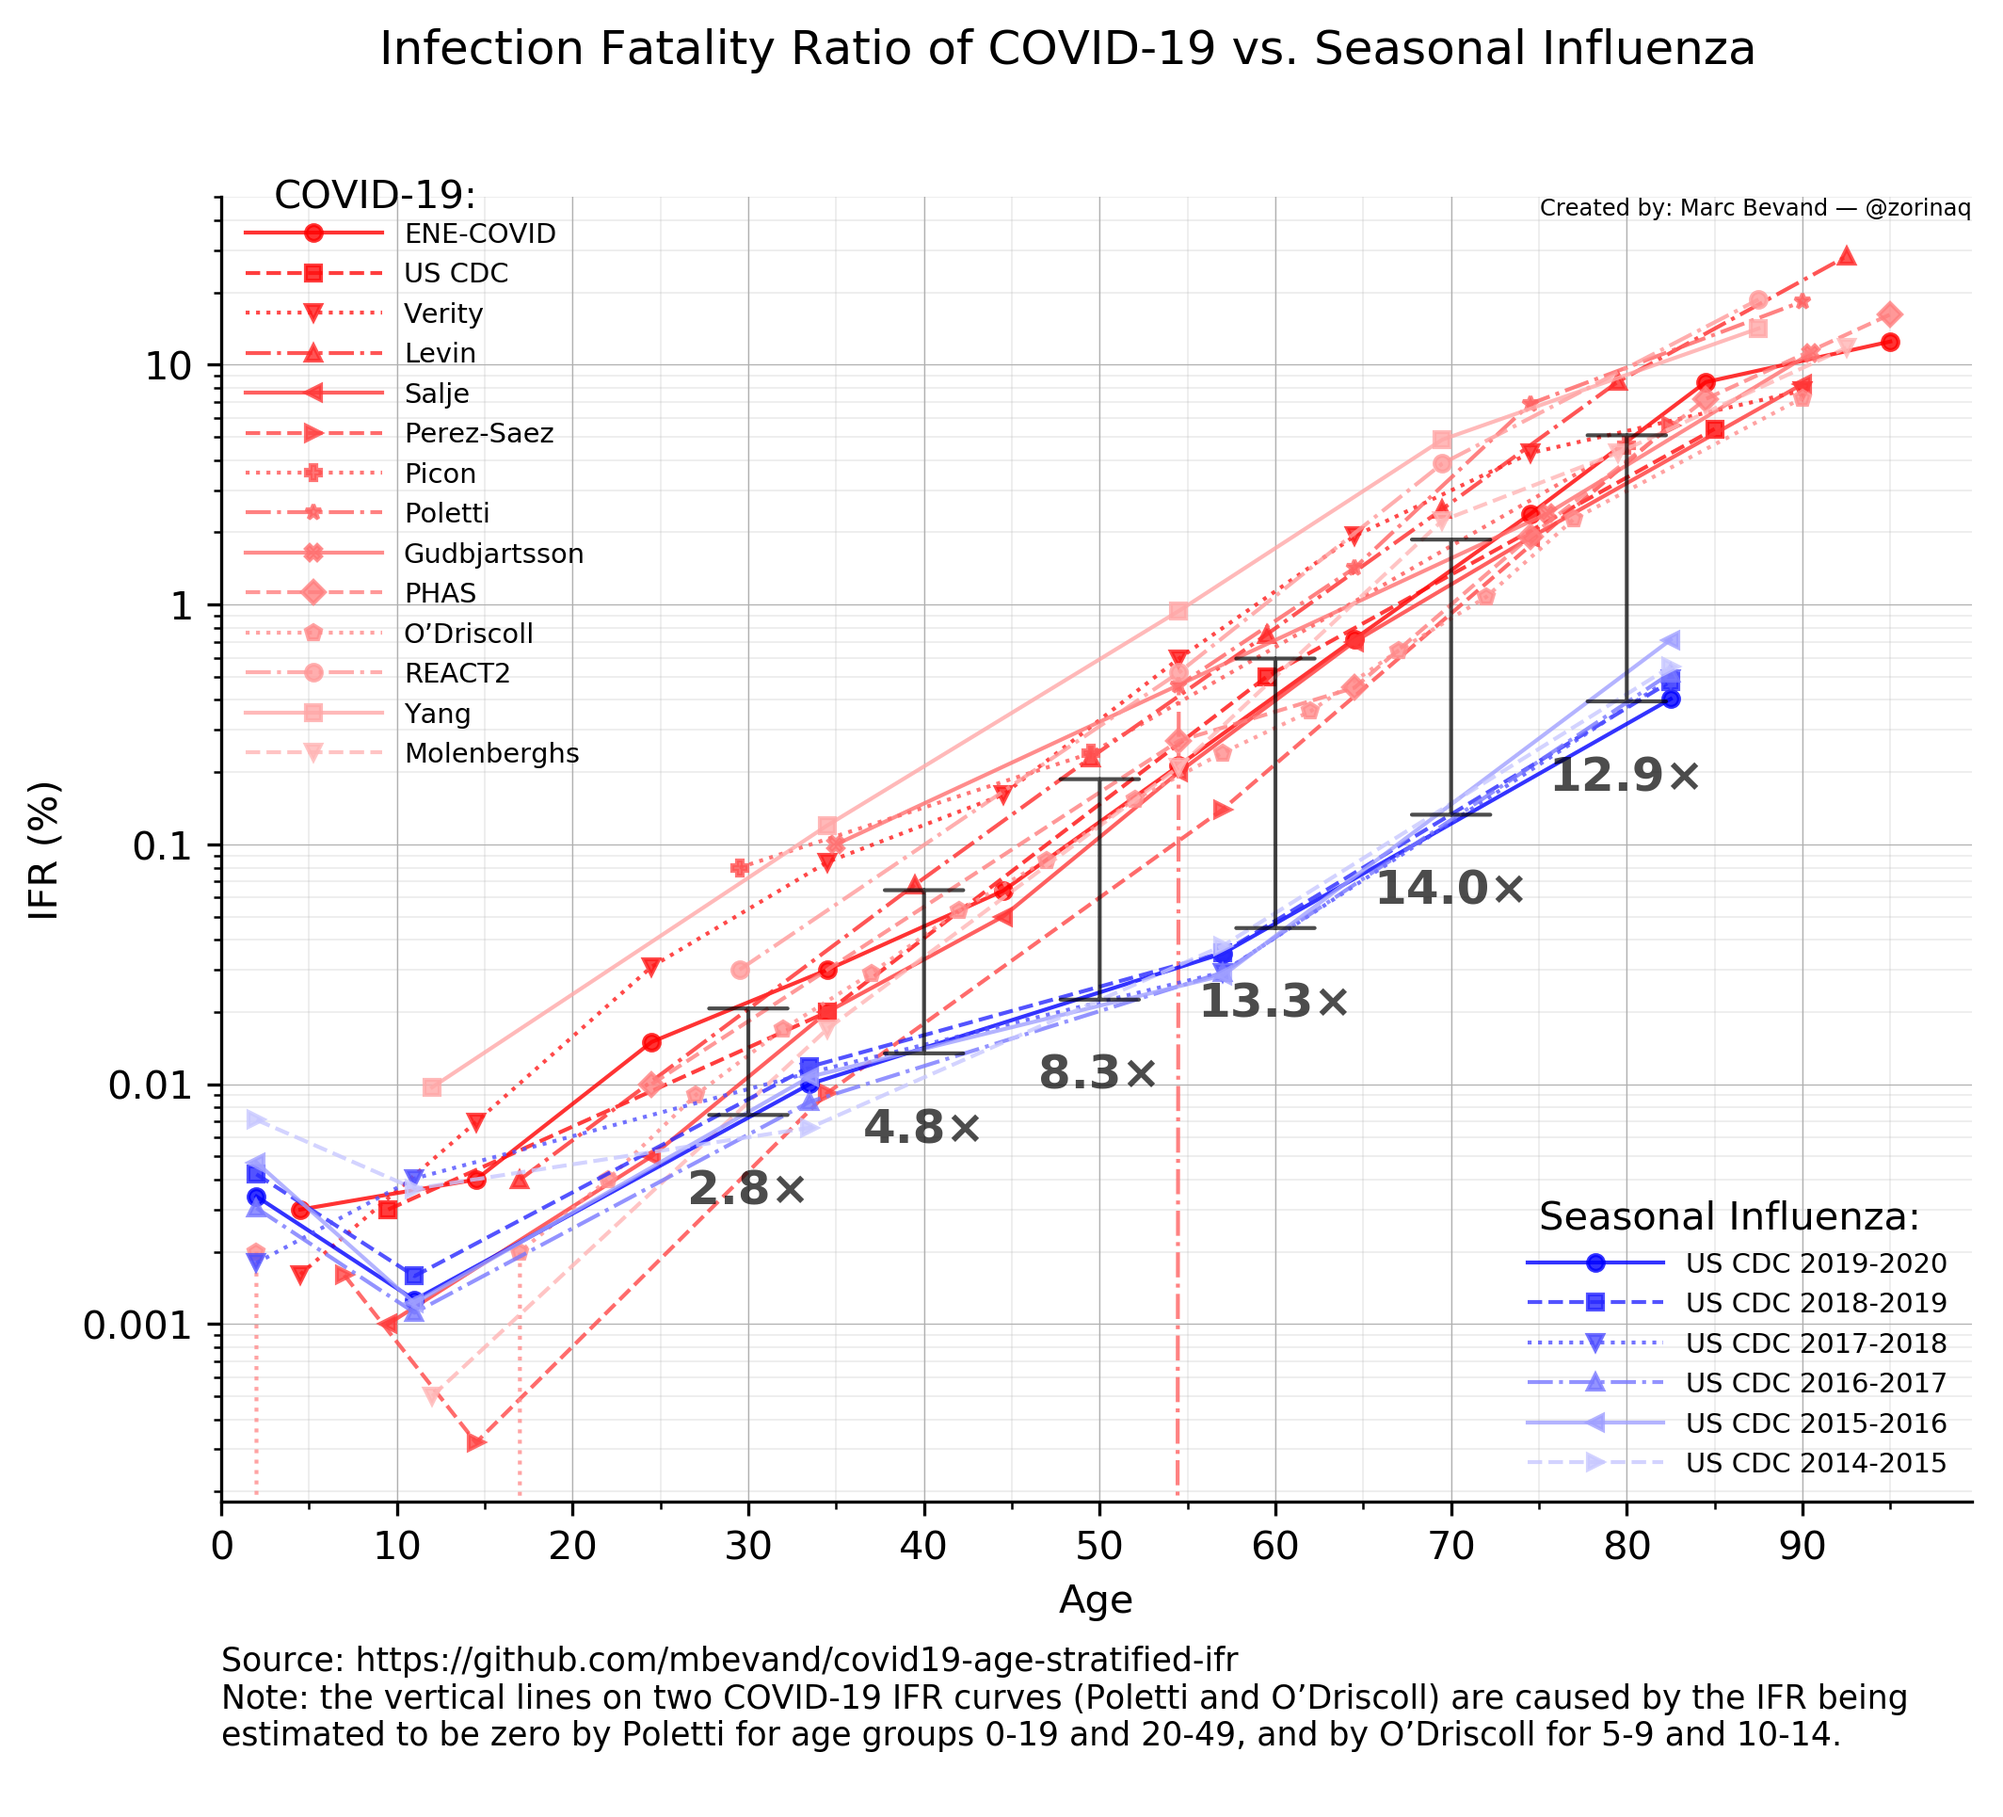
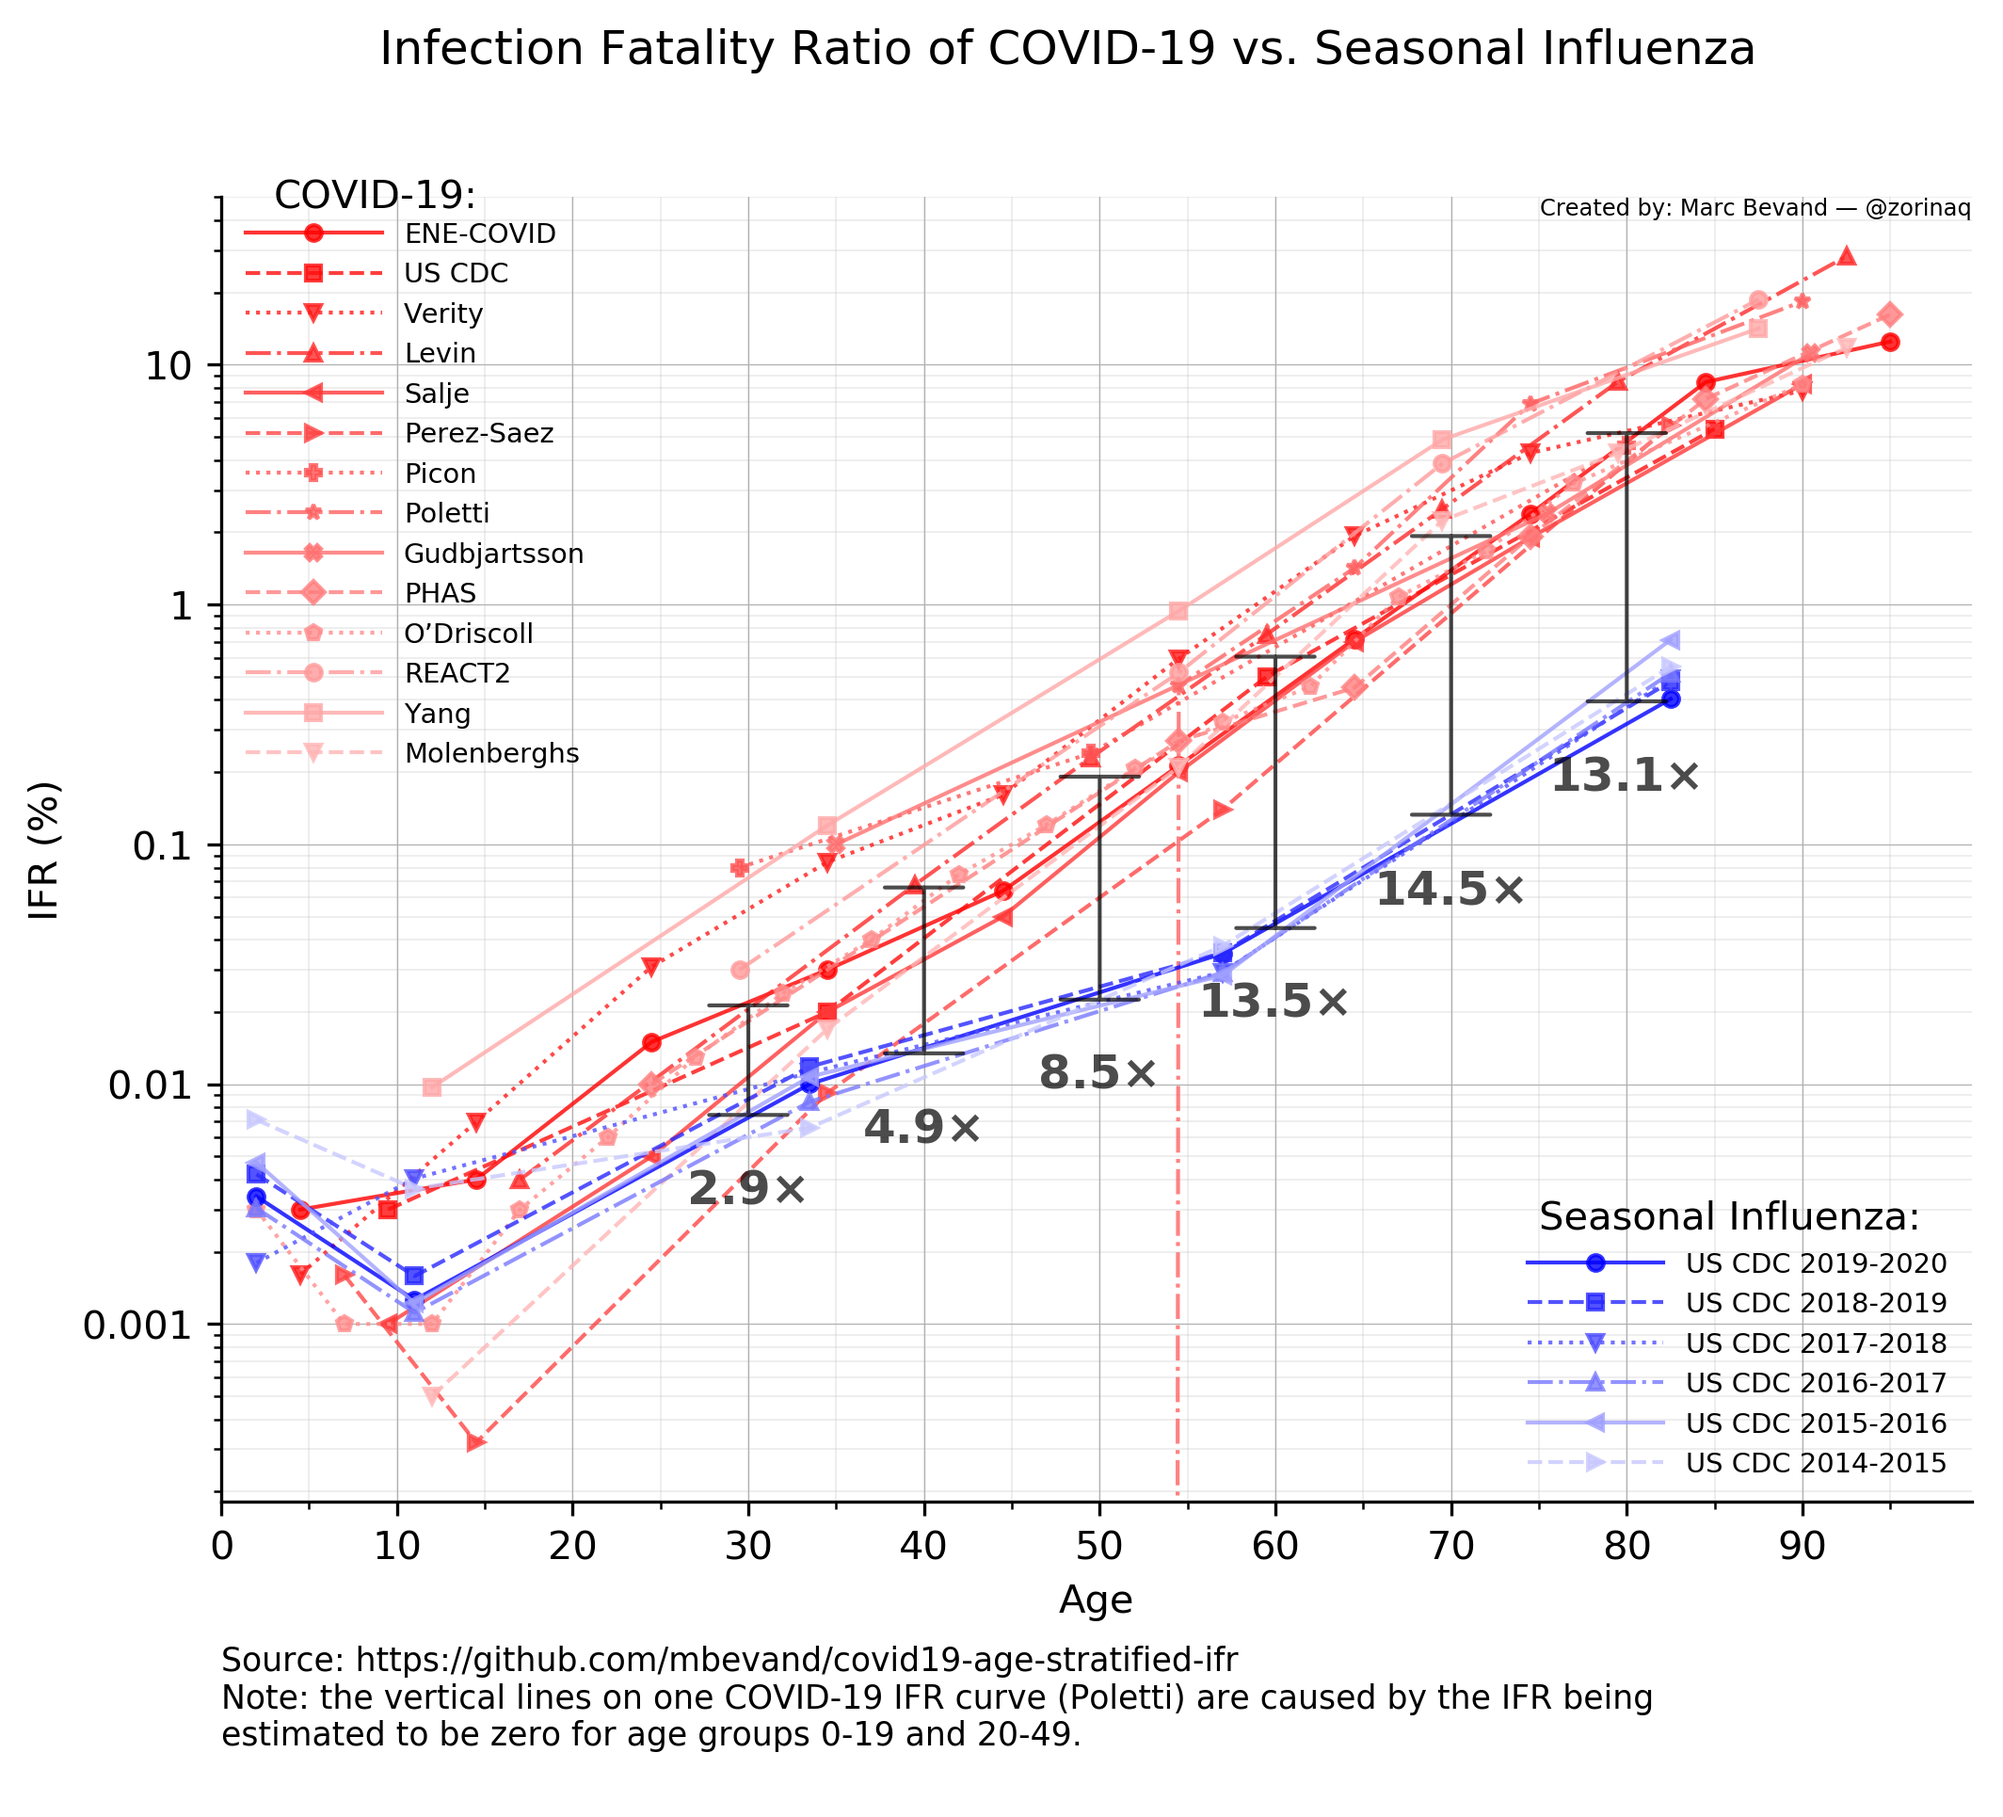
covid_vs_flu: update O’Driscoll (now published in Nature)

diff --git a/covid_vs_flu.py b/covid_vs_flu.py
@@ -137,27 +137,29 @@ ifrs_covid = [
             (90,maxage):  16.21,
         }),
 
-        # O’Driscoll et al.: Age-specific mortality and immunity patterns of SARS-CoV-2 infection in 45 countries
-        # https://www.medrxiv.org/content/10.1101/2020.08.24.20180851v1
-        # (table S4)
+        # O’Driscoll et al.: Age-specific mortality and immunity patterns of SARS-CoV-2
+        # https://www.nature.com/articles/s41586-020-2918-0
+        # Supplementary information
+        # https://static-content.springer.com/esm/art%3A10.1038%2Fs41586-020-2918-0/MediaObjects/41586_2020_2918_MOESM1_ESM.pdf
+        # (table S3)
         ('O’Driscoll', {
-            (0,4):   0.002,
-            (5,9):   0,
-            (10,14): 0,
-            (15,19): 0.002,
-            (20,24): 0.004,
-            (25,29): 0.009,
-            (30,34): 0.017,
-            (35,39): 0.029,
-            (40,44): 0.053,
-            (45,49): 0.086,
-            (50,54): 0.154,
-            (55,59): 0.241,
-            (60,64): 0.359,
-            (65,69): 0.642,
-            (70,74): 1.076,
-            (75,79): 2.276,
-            (80,maxage): 7.274,
+            (0,4):   0.003,
+            (5,9):   0.001,
+            (10,14): 0.001,
+            (15,19): 0.003,
+            (20,24): 0.006,
+            (25,29): 0.013,
+            (30,34): 0.024,
+            (35,39): 0.040,
+            (40,44): 0.075,
+            (45,49): 0.121,
+            (50,54): 0.207,
+            (55,59): 0.323,
+            (60,64): 0.456,
+            (65,69): 1.075,
+            (70,74): 1.674,
+            (75,79): 3.203,
+            (80,maxage): 8.292,
         }),
 
         # Ward et al.: Antibody prevalence for SARS-CoV-2 in England following first peak of the pandemic: REACT2 study in 100,000 adults
@@ -388,8 +390,8 @@ def main():
     fig.suptitle('Infection Fatality Ratio of COVID-19 vs. Seasonal Influenza')
     ax.text(0, -0.11,
     'Source: https://github.com/mbevand/covid19-age-stratified-ifr\n'
-    'Note: the vertical lines on two COVID-19 IFR curves (Poletti and O’Driscoll) are caused by the IFR being\n'
-    'estimated to be zero by Poletti for age groups 0-19 and 20-49, and by O’Driscoll for 5-9 and 10-14.\n',
+    'Note: the vertical lines on one COVID-19 IFR curve (Poletti) are caused by the IFR being\n'
+    'estimated to be zero for age groups 0-19 and 20-49.\n',
             transform=ax.transAxes, fontsize='small', verticalalignment='top',
     )
     ax.text(1, 1, 'Created by: Marc Bevand — @zorinaq',

diff --git a/README.md b/README.md
@@ -34,7 +34,7 @@ The COVID-19 IFR curves represent these estimates:
 1. [Gudbjartsson et al.: Humoral Immune Response to SARS-CoV-2 in Iceland](https://www.nejm.org/doi/full/10.1056/NEJMoa2026116),
   specifically [Supplementary Appendix 1](https://www.nejm.org/doi/suppl/10.1056/NEJMoa2026116/suppl_file/nejmoa2026116_appendix_1.pdf) (table S7)
 1. [PHAS - Public Health Agency of Sweden: The infection fatality rate of COVID-19 in Stockholm – Technical report](https://www.folkhalsomyndigheten.se/contentassets/53c0dc391be54f5d959ead9131edb771/infection-fatality-rate-covid-19-stockholm-technical-report.pdf) (table B.1)
-1. [O’Driscoll et al.: Age-specific mortality and immunity patterns of SARS-CoV-2 infection in 45 countries](https://www.medrxiv.org/content/10.1101/2020.08.24.20180851v1) (table S4)
+1. [O’Driscoll et al.: Age-specific mortality and immunity patterns of SARS-CoV-2](https://www.nature.com/articles/s41586-020-2918-0) (table S3)
 1. [Ward et al.: Antibody prevalence for SARS-CoV-2 in England following first peak of the pandemic: REACT2 study in 100,000 adults](https://www.medrxiv.org/content/10.1101/2020.08.12.20173690v2),
   specifically [Supplementary Appendix](https://www.medrxiv.org/highwire/filestream/93745/field_highwire_adjunct_files/0/2020.08.12.20173690-1.docx) (table S2a, column "Based on confirmed COVID-19 deaths")
 1. [Yang et al.: Estimating the infection fatality risk of COVID-19 in New York City during the spring 2020 pandemic wave](https://www.medrxiv.org/content/10.1101/2020.06.27.20141689v2) (table 1)
